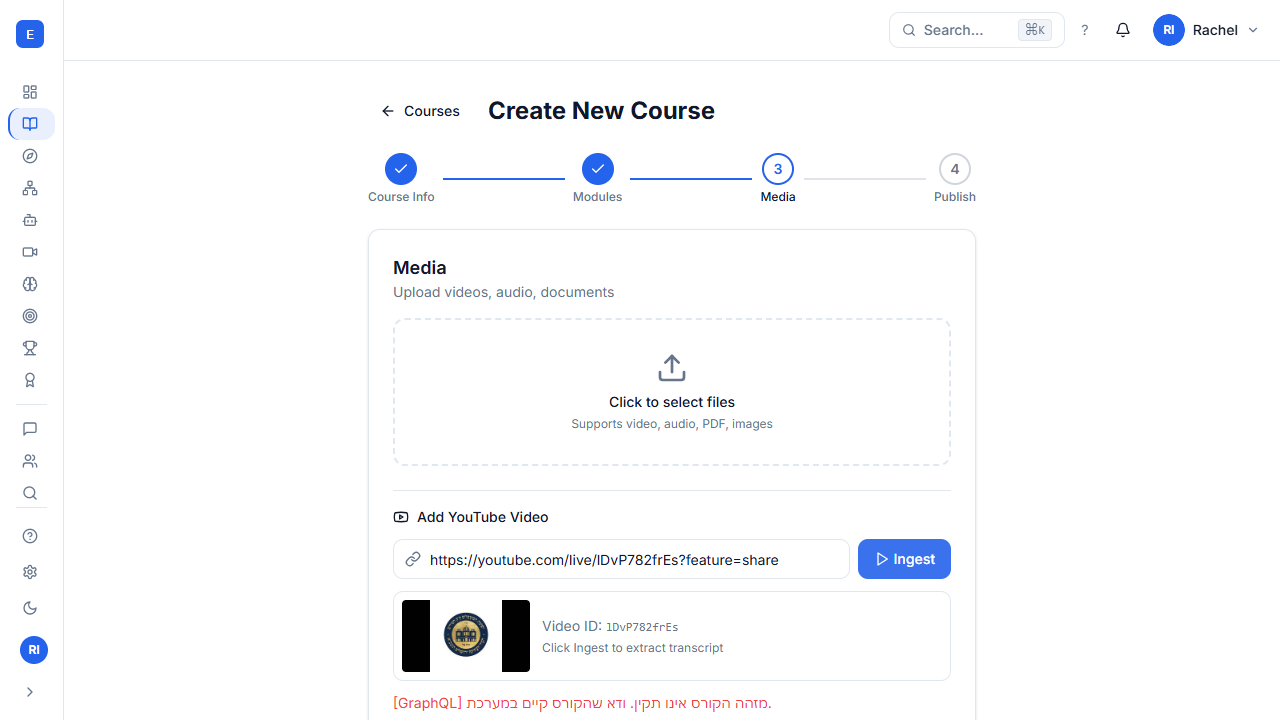
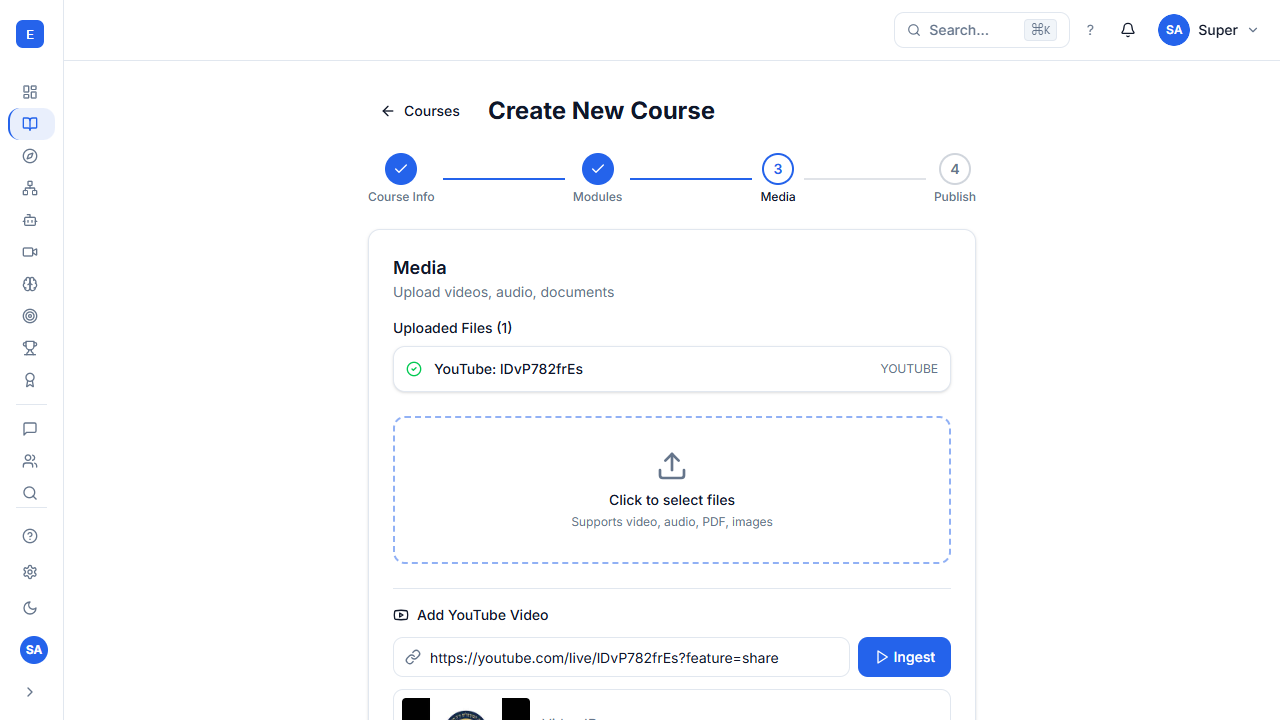
fix(web): complete YouTube course creation flow end-to-end
- Add ALLOW_DEV_TOKEN to gateway + subgraph-content in docker-compose.dev
- Add supergraph.graphql volume mount for correct Docker DNS routing
- Fix handleNextToMedia() to show toast + stop on mutation failure
- Update E2E test with correct auth flow and assertions
- Verified: course "כוונות הרש"ש" created successfully with YouTube ingest

diff --git a/apps/web/e2e/create-course-youtube.spec.ts b/apps/web/e2e/create-course-youtube.spec.ts
@@ -30,8 +30,10 @@ const KEYCLOAK_URL = process.env.E2E_KEYCLOAK_URL ?? 'http://localhost:8080';
 const KEYCLOAK_REALM = process.env.E2E_KEYCLOAK_REALM ?? 'edusphere';
 
 const INSTRUCTOR = {
-  username: 'instructor.rachel',
-  password: 'EduSphere2024!',
+  // Use the seeded instructor account from scripts/reset-keycloak-passwords.cjs
+  // instructor.rachel does not exist in the Keycloak realm — use instructor@example.com
+  username: process.env.E2E_INSTRUCTOR_USERNAME ?? 'instructor@example.com',
+  password: process.env.E2E_INSTRUCTOR_PASSWORD ?? 'Instructor123!',
 };
 
 const COURSE_TITLE = 'כוונות הרש"ש';
@@ -121,6 +123,22 @@ async function loginViaKeycloak(page: Page): Promise<void> {
     timeout: 30_000,
   });
 
+  // Wait for Keycloak code exchange to complete — spinner disappears
+  await page
+    .waitForFunction(
+      () => {
+        const spinner = document.querySelector('.animate-spin');
+        const text = document.body.textContent ?? '';
+        return (
+          !spinner &&
+          !text.includes('Initializing authentication') &&
+          !!document.querySelector('nav, [data-testid="sidebar"], header')
+        );
+      },
+      { timeout: 30_000 }
+    )
+    .catch(() => {});
+
   // Wait for authenticated route
   await page
     .waitForURL(/\/(learn|courses|dashboard|agents|search|profile)/, {
@@ -145,12 +163,47 @@ test.describe('Create Course with YouTube Video — instructor.rachel', () => {
     await screenshot(page, 'create-course-yt-01-after-login');
 
     // ── Step 1: Navigate to /courses/new ──────────────────────────────────────
-    // Wait a moment for the app to finish initializing after Keycloak redirect
+    // After Keycloak login, the SPA is mounted and keycloak.authenticated is true
+    // in memory. We click the React Router <Link to="/courses/new"> on the
+    // Dashboard to avoid a full page reload (which would re-run Keycloak init and
+    // hit the 10-second timeout, falling back to unauthenticated).
     await page.waitForLoadState('networkidle').catch(() => {});
-    await page.goto(`${BASE_URL}/courses/new`, { waitUntil: 'domcontentloaded' });
-    // Wait for React lazy-loaded components to finish rendering
+    await page.waitForTimeout(1500);
+
+    // The Dashboard has a React Router Link with href="/courses/new".
+    // Clicking it does client-side navigation (no reload).
+    const createCourseLink = page.locator('a[href="/courses/new"]').first();
+    const hasCreateLink = await createCourseLink
+      .isVisible({ timeout: 5_000 })
+      .catch(() => false);
+
+    if (hasCreateLink) {
+      await createCourseLink.click();
+    } else {
+      // Fallback: look for any Create/New Course button/link by text
+      const createBtn = page.getByRole('link', { name: /create.*(course|new)|new.*course/i }).first();
+      const hasBtnByText = await createBtn.isVisible({ timeout: 3_000 }).catch(() => false);
+      if (hasBtnByText) {
+        await createBtn.click();
+      } else {
+        // Last resort: navigate sidebar to Courses, then find create button
+        await page.goto(`${BASE_URL}/courses/new`, { waitUntil: 'domcontentloaded' });
+        // Wait for Keycloak SSO check to complete
+        await page.waitForTimeout(12_000);
+      }
+    }
+
+    // Wait for the Create Course page heading
+    await page
+      .waitForFunction(
+        () => document.body.textContent?.includes('Create New Course') ||
+              document.body.textContent?.includes('Create Course') ||
+              !!document.querySelector('input[name="title"]'),
+        { timeout: 15_000 }
+      )
+      .catch(() => {});
+
     await page.waitForLoadState('networkidle').catch(() => {});
-    await page.waitForTimeout(1000);
     await screenshot(page, 'create-course-yt-02-courses-new');
 
     // Verify the page loaded — look for heading or step 1 content

diff --git a/apps/web/src/pages/useCourseCreate.tsx b/apps/web/src/pages/useCourseCreate.tsx
@@ -143,15 +143,21 @@ export function useCourseCreate() {
     });
 
     if (error) {
-      // Advance anyway — YouTube ingest will surface the error inline.
-      // The "draft" fallback courseId will be used until a real id is available.
-      setStep(2);
+      // Surface the error — do NOT advance with a null draftCourseId because
+      // ingestYoutubeLesson will reject courseId:"draft" (not a UUID).
+      const reason =
+        error.graphQLErrors?.[0]?.message ??
+        error.networkError?.message ??
+        'Failed to create draft course. Please try again.';
+      toast.error(reason);
       return;
     }
 
     if (data?.createCourse) {
       setDraftCourseId(data.createCourse.id);
       setStep(2);
+    } else {
+      toast.error('Unexpected response from server. Please try again.');
     }
   };
 
